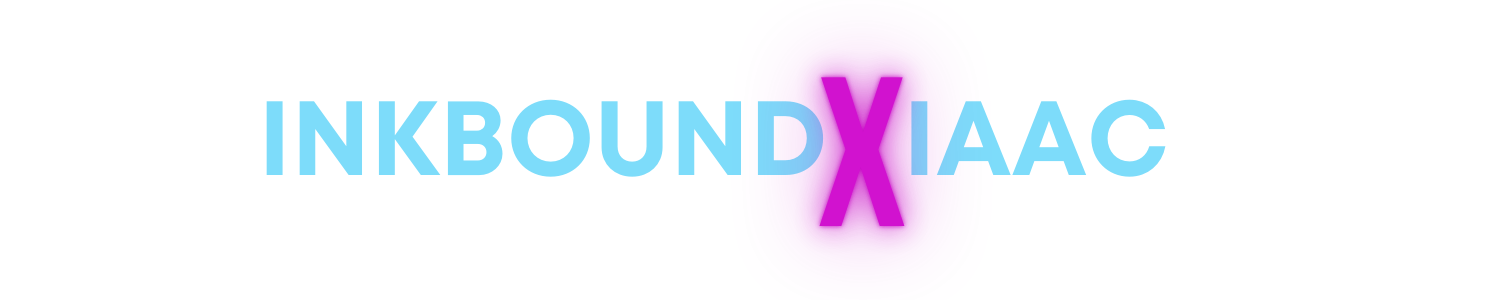
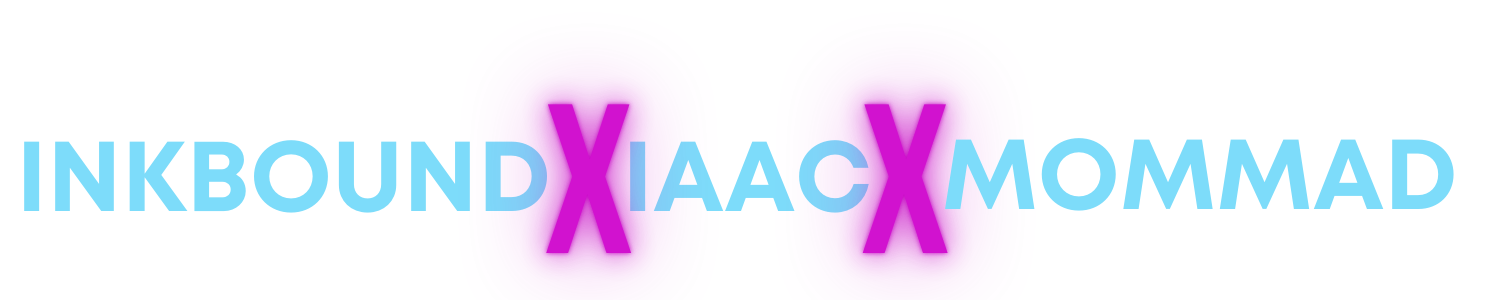
update syk

Changed region(s): [[0.0, 0.18, 0.9813, 0.93]]

diff --git a/src/pages/LandingPage.tsx b/src/pages/LandingPage.tsx
@@ -59,15 +59,7 @@ export default function LandingPage() {
           {fakeUserCount} readers browsing right now...
         </div>
 
-        {/* 🧑🎄 Inkbound Santa CTA */}
-        <div className="flex justify-center">
-          <Link
-            to="/inkbound-santa"
-            className="inline-flex items-center gap-2 px-5 py-2.5 rounded-full bg-amber-700/90 hover:bg-amber-600 text-sm font-semibold uppercase tracking-[0.18em] shadow-[0_0_18px_rgba(225,167,48,0.6)] border border-amber-400/70 transition"
-          >
-            🎅 Book Inkbound Santa · 16 Dec
-          </Link>
-        </div>
+       
       </div>
 
       {/* Guidebook Cover (click to open) */}
@@ -215,19 +207,7 @@ export default function LandingPage() {
       {/* Feature Cards */}
       <div className="relative z-10 grid grid-cols-1 md:grid-cols-2 lg:grid-cols-3 gap-6 text-center max-w-6xl mx-auto px-6 mb-12 animate-fade-in">
         {[
-          // 🎅 New Inkbound Santa card
-          {
-            to: "/inkbound-santa",
-            img: "inkbound-santa.png",
-            title: "Inkbound Santa",
-            desc: "Book a cosy 10-minute visit with Santa in the bookshop on 16 December.",
-          },
-          {
-            to: "/featured-books",
-            img: "stocked-on-our-bookshelf.png",
-            title: "Stocked in Our Bookshop",
-            desc: "Discover books physically shelved at the Inkbound Bookshop in Gort",
-          },
+         
           {
             to: "/virtual-shelf",
             img: "on-our-virtual shelf.png",
@@ -320,7 +300,7 @@ export default function LandingPage() {
     </h2>
 
     <p className="text-gray-300 max-w-2xl mx-auto mb-5 opacity-90">
-      Inkbound is partnering with the Indie Author Advocate Community to host a
+      Inkbound is partnering with the Indie Author Advocate Community & MommaD to host a
       one-day Stuff Your Kindle event dedicated entirely to indie and
       self-published authors — across all genres, worldwide.
     </p>

diff --git a/src/pages/StuffYourKindle.tsx b/src/pages/StuffYourKindle.tsx
@@ -237,7 +237,8 @@ export default function StuffYourKindle() {
             <p className={`mx-auto max-w-3xl text-sm sm:text-base leading-relaxed ${textTheme.muted}`}>
               Every January, people promise to read more. This year, we’re making it easy.
               On <span className="font-semibold">January 1st, 2026</span>, Inkbound is partnering with the{" "}
-              <span className="font-semibold">Indie Author Advocate Community</span> to host a Stuff Your Kindle event
+              <span className="font-semibold">Indie Author Advocate Community</span> & {" "}
+              <span className="font-semibold">MommaD</span> to host a Stuff Your Kindle event
               dedicated entirely to indie and self-published authors — across all genres.
             </p>
 
